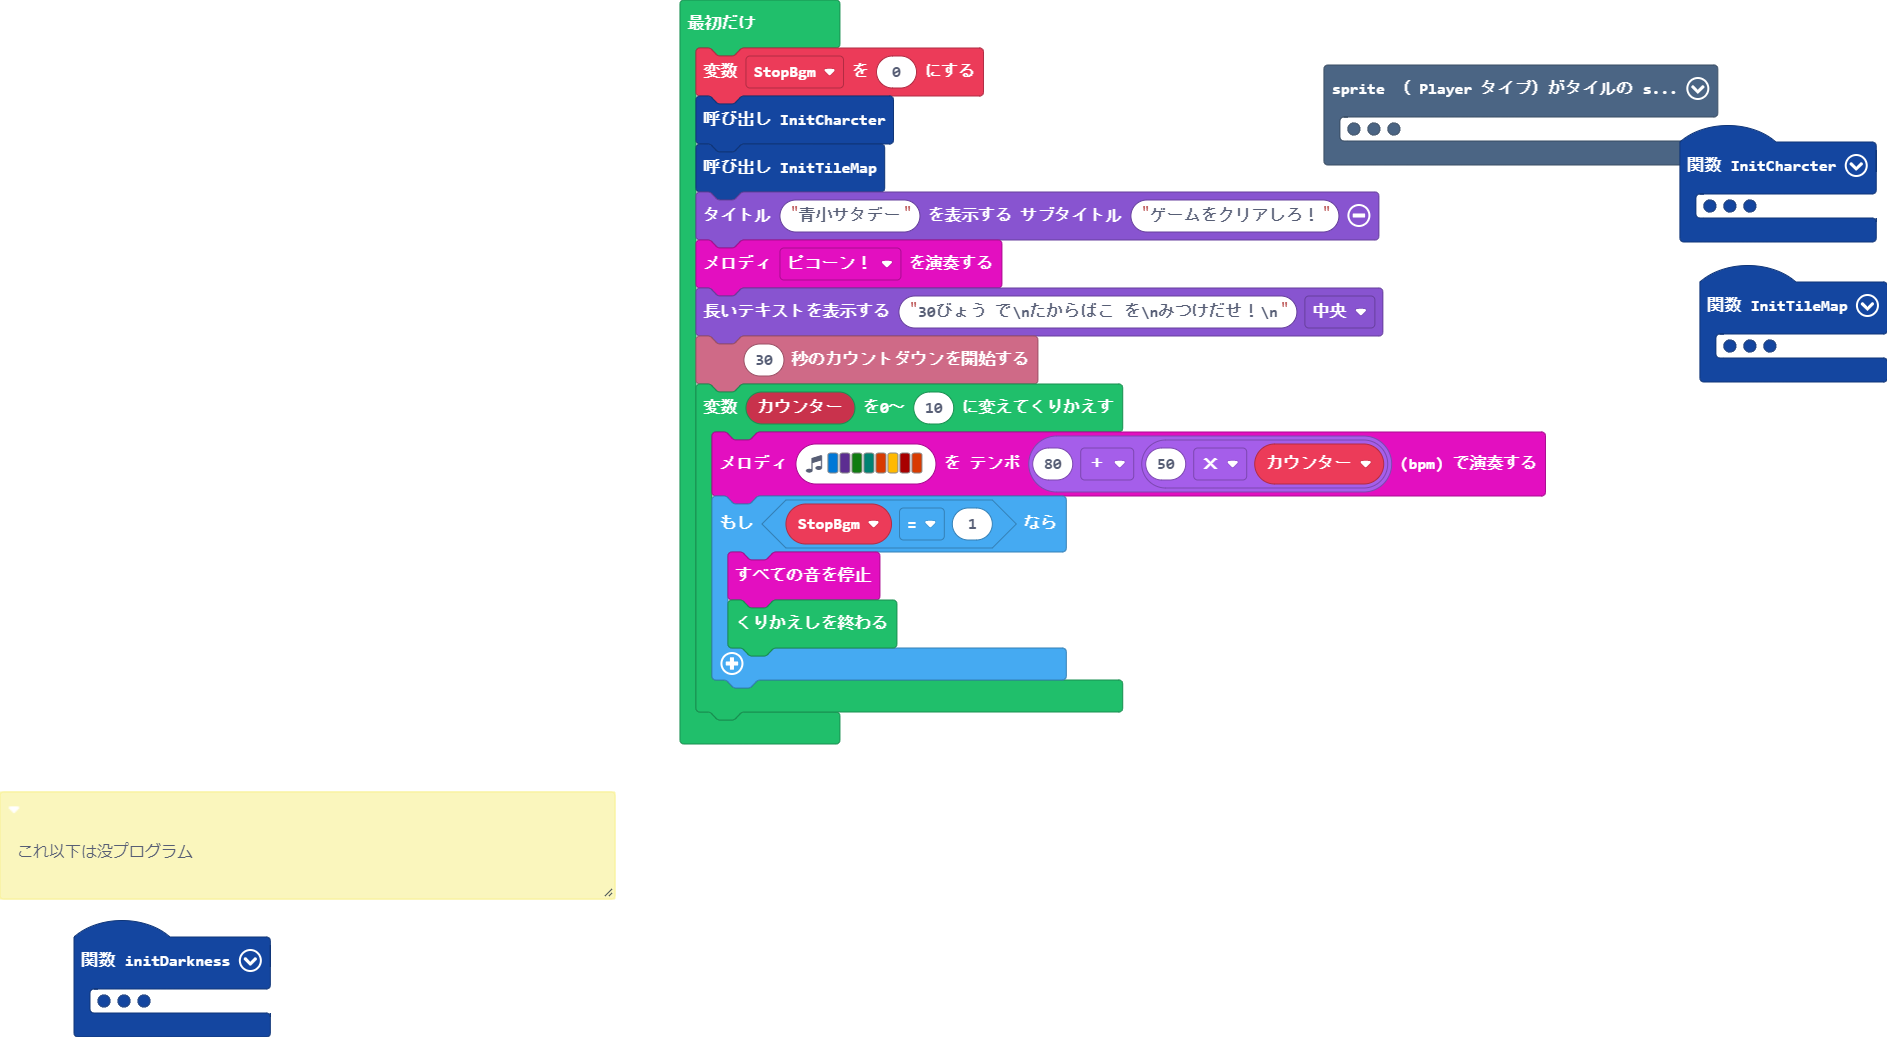
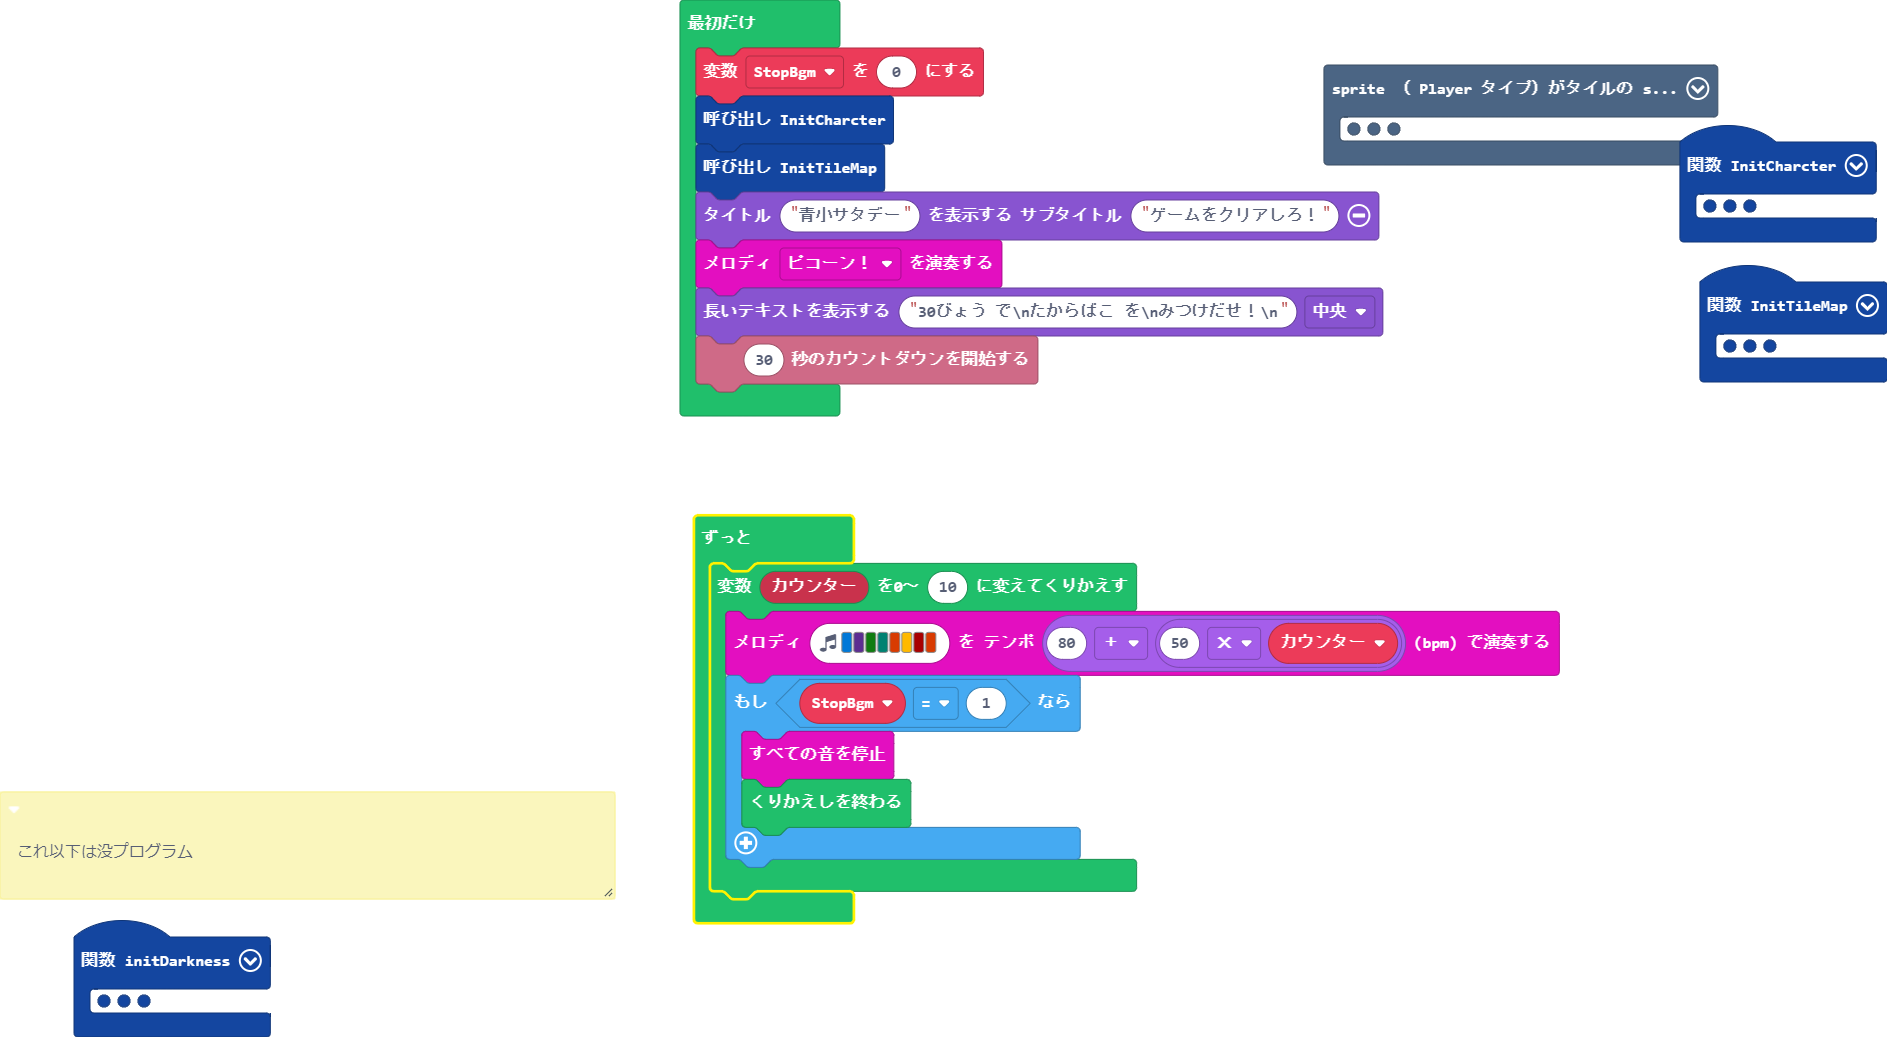
サウンド処理をずっと処理へ移動

Changed region(s): [[0.3381, 0.3703, 0.8299, 0.8949]]

diff --git a/main.ts b/main.ts
@@ -68,10 +68,12 @@ game.splash("青小サタデー", "ゲームをクリアしろ！")
 music.baDing.play()
 game.showLongText("30びょう で\\nたからばこ を\\nみつけだせ！\\n", DialogLayout.Center)
 info.startCountdown(30)
-for (let カウンター = 0; カウンター <= 10; カウンター++) {
-    music.playMelody("E D G F B A C5 B ", 80 + 50 * カウンター)
-    if (StopBgm == 1) {
-        music.stopAllSounds()
-        break;
+forever(function () {
+    for (let カウンター = 0; カウンター <= 10; カウンター++) {
+        music.playMelody("E D G F B A C5 B ", 80 + 50 * カウンター)
+        if (StopBgm == 1) {
+            music.stopAllSounds()
+            break;
+        }
     }
-}
+})
